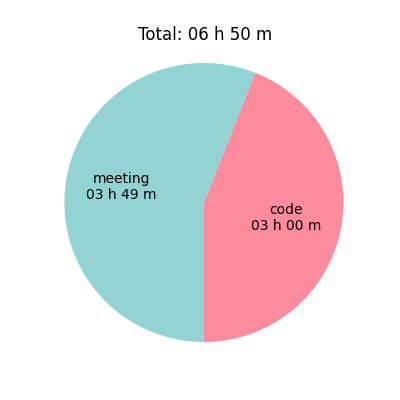
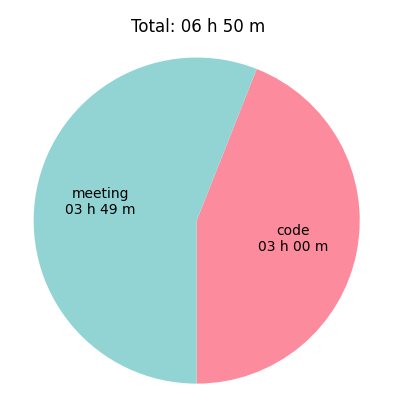
update pie.png

Changed region(s): [[0.06, 0.03, 0.9, 0.96]]

diff --git a/plot.py b/plot.py
@@ -97,9 +97,12 @@ class DataProcessor:
         total = np.sum(self.task_time_list)
         t_str = strfdelta(total, fmt)
         ax.set_title(f"Total: {t_str}")
-        self.savefig(fig, "pie.png")
+        fig.subplots_adjust(bottom=0.0, left=0.0, right=0.99, top=0.90)        
+        #fig.suptitle(f"Total: {t_str}", verticalalignment='bottom')
+        self.savefig(fig, f"pie.{self.opt.days}day.png")
     
     def savefig(self, fig, name):
+        # fig.subplots_adjust(bottom=0.15, left=0.1, right=0.99, top=0.97, wspace=0.25, hspace=0)
         fig_dir = util.get_fig_dir()
         fig_path = fig_dir.joinpath(name)
         fig.savefig(fig_path)

diff --git a/README.md b/README.md
@@ -21,6 +21,9 @@ python plot.py --days 1
 Currently, I plan to have the following features:
 - Print statistics summary
 - Plot pie chart
+
+![](figs/pie.png)
+
 - Plot timeline
 - Plot working time along date/month
 
